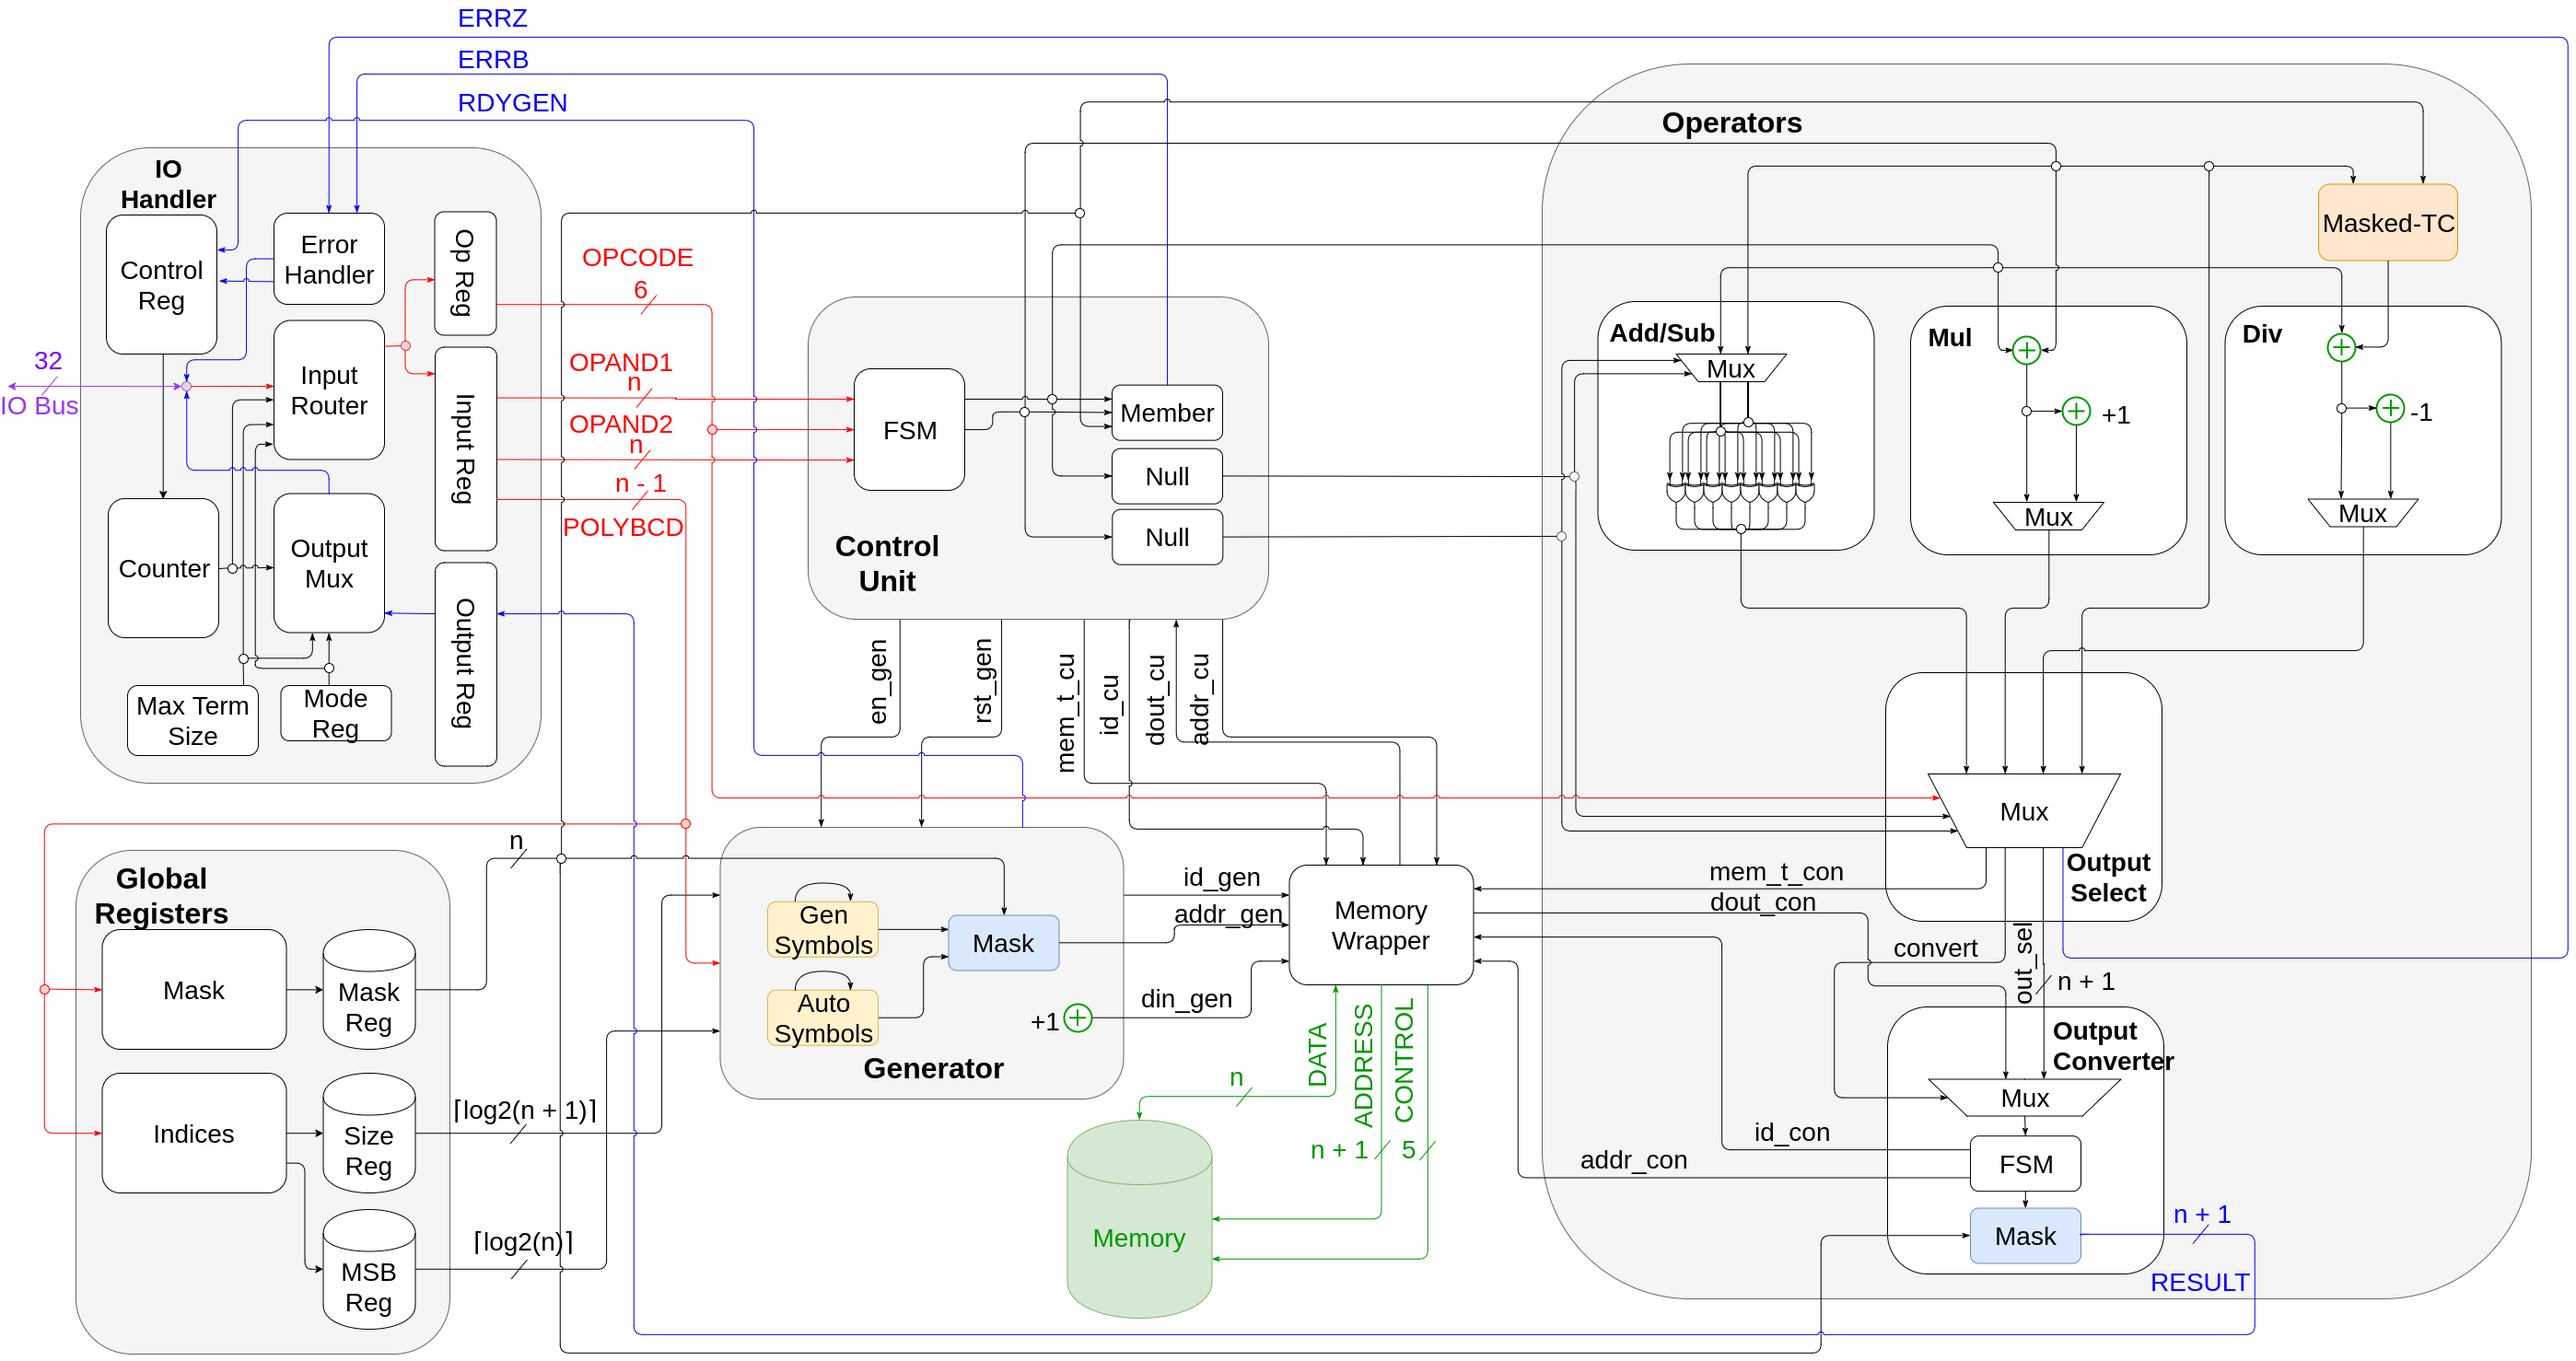
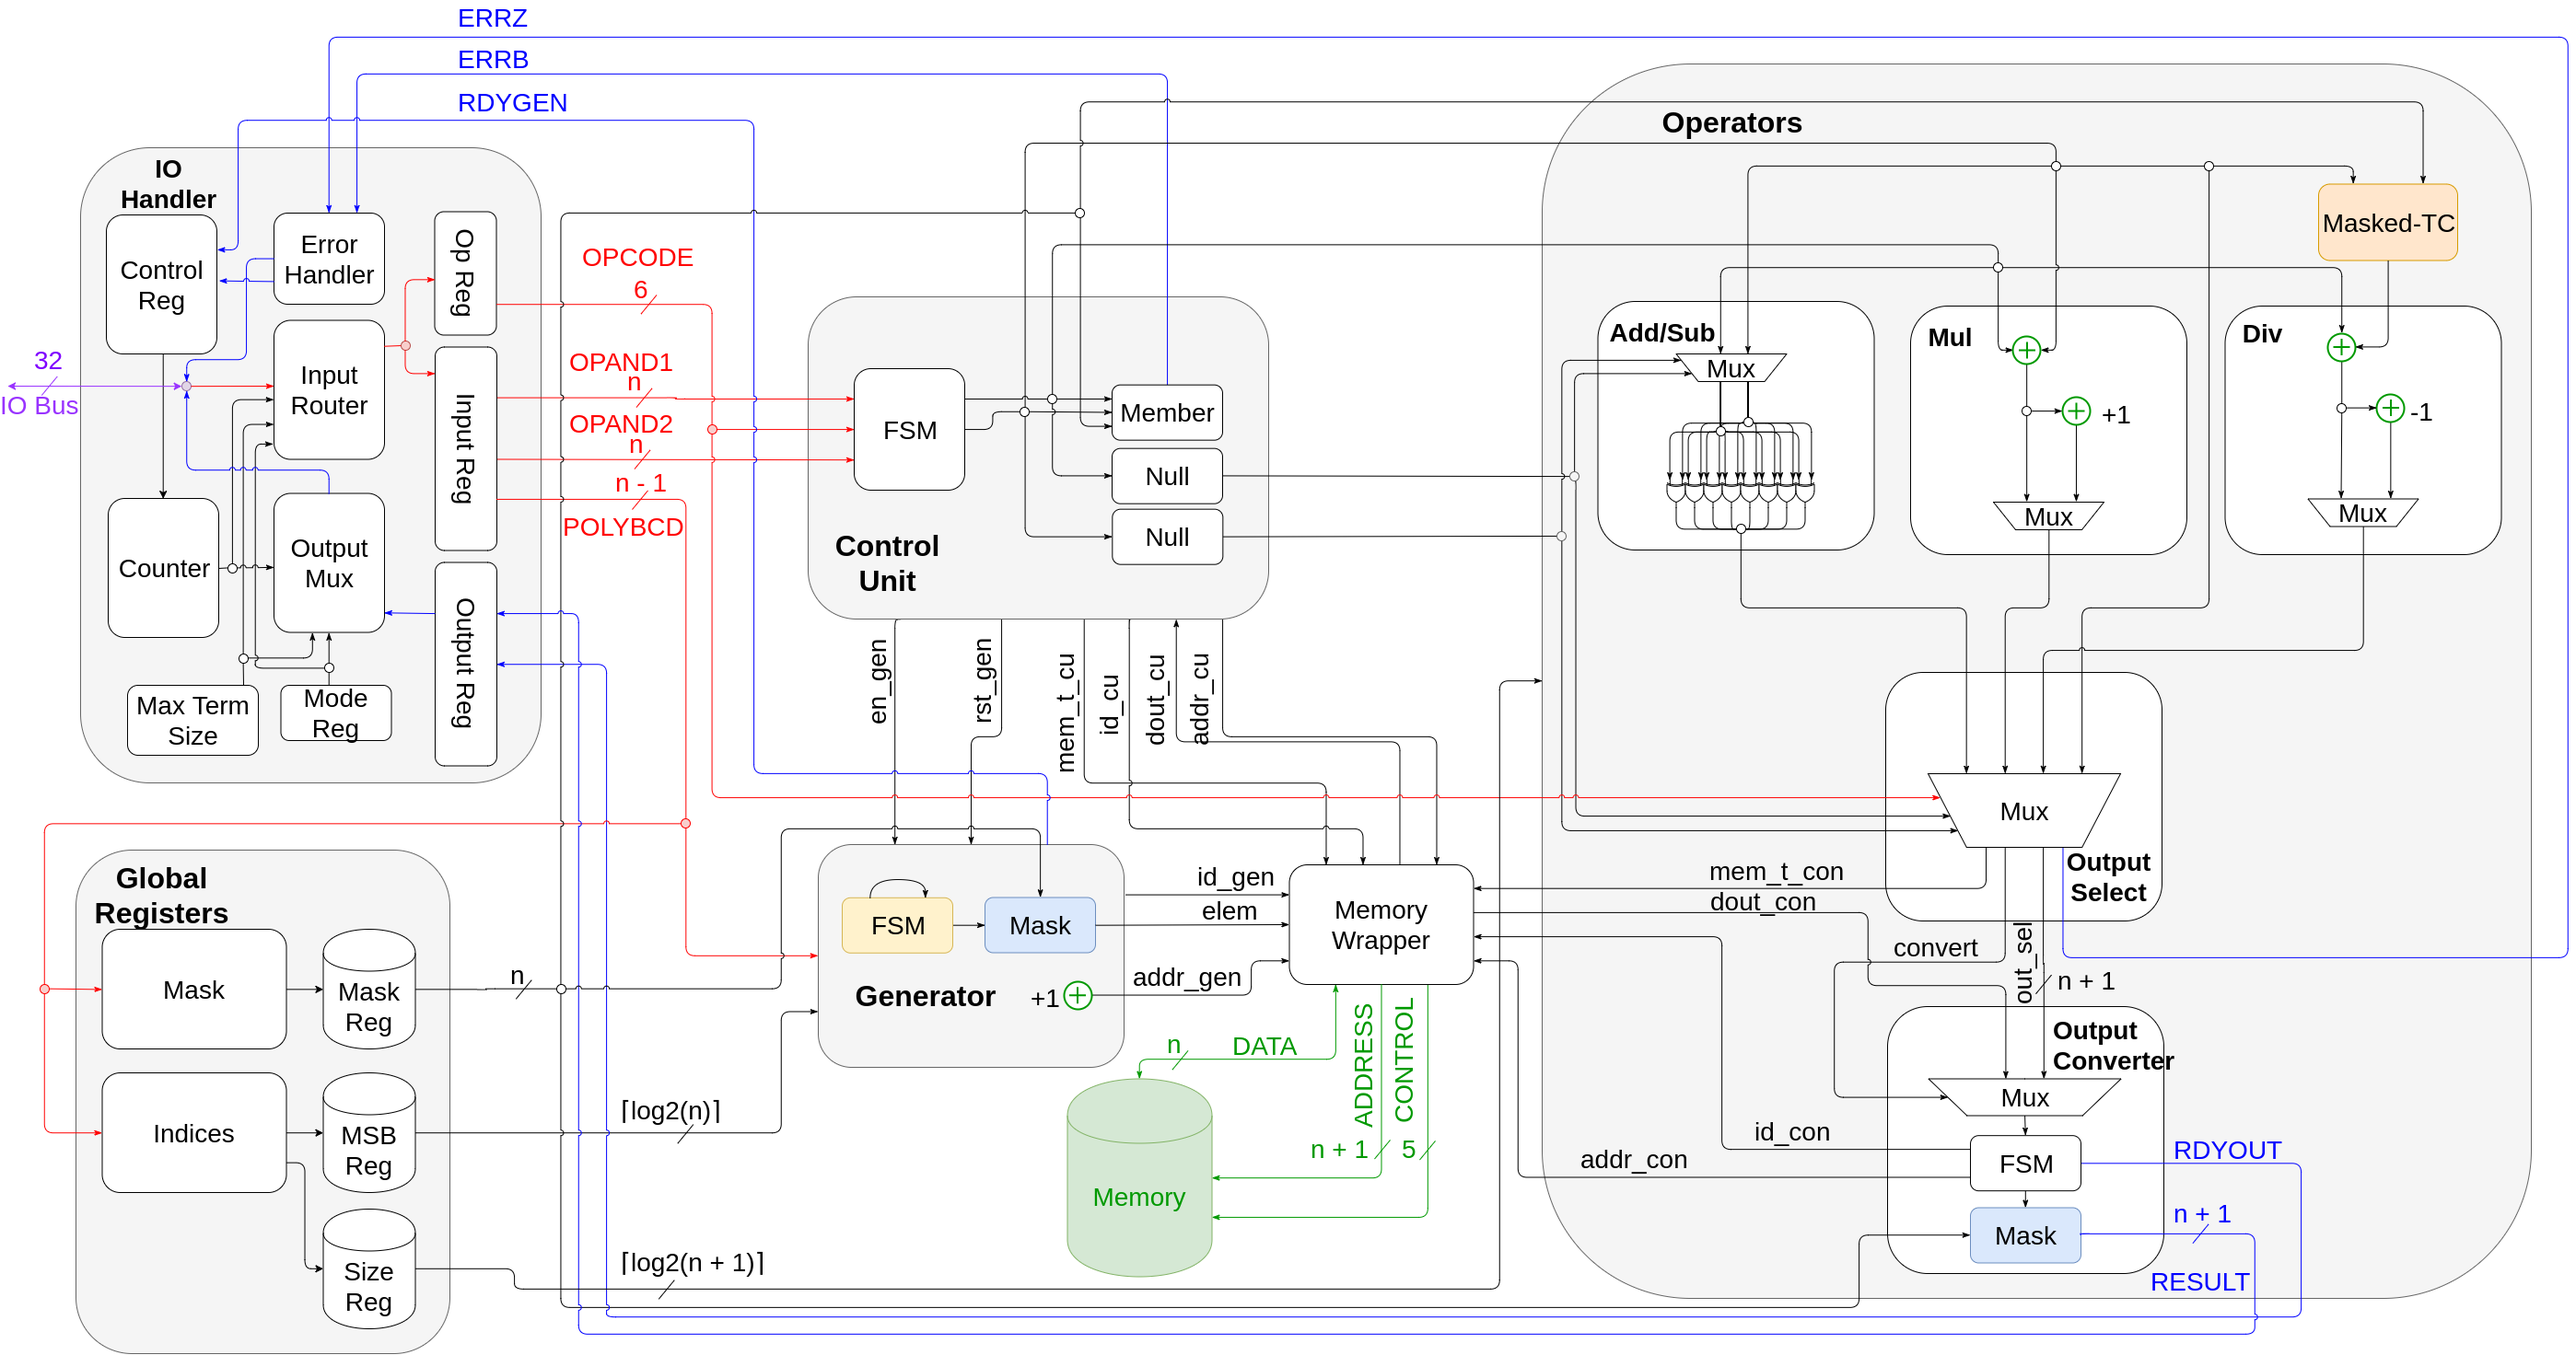
update block schematic with new signals

diff --git a/design/vhdl/README.md b/design/vhdl/README.md
@@ -1,54 +1,26 @@
 # Modules
 
-## Symbols
-- [ ] Automatic Symbol Generator
-    - [ ] 16-bits
-- [ ] Symbol Generator
-    - [ ] 16-bits
-- [x] Irreduciblity
-    - [x] [16-bits](https://github.com/sabbirahm3d/GFAU/blob/master/design/vhdl/gen/mods/reducable16.vhd)
+## Control Units
+- [x] [Opcode Control Unit](https://github.com/sabbirahm3d/GFAU/blob/master/design/vhdl/cu/mods/control_unit.vhd)
+
+## Generator
+- [x] [Element Generator](https://github.com/sabbirahm3d/GFAU/blob/master/design/vhdl/gen/mods/generator.vhd)
 
 ## Galois Operations
-- [x] Addition / Subtraction
-    - [x] [16-bits](https://github.com/sabbirahm3d/GFAU/blob/master/design/vhdl/ops/mods/addsub16.vhd)
-- [x] Multiplication
-    - [x] [16-bits](https://github.com/sabbirahm3d/GFAU/blob/master/design/vhdl/ops/mods/mul16.vhd)
-- [x] Division
-    - [x] [16-bits](https://github.com/sabbirahm3d/GFAU/blob/master/design/vhdl/ops/mods/div16.vhd)
-
-## Control Units
-- [ ] Opcode Control Unit
-    - [ ] 6-bits
-
-## Memory
-- [ ] Memory Wrapper
-    - [ ] 16-bits
-
-## Multiplexers
-- [ ] Data Bus Width
-    - [ ] ?-bits
-- [ ] Memory Lookup
-    - [ ] 16-bits
-- [x] Output Select
-    - [x] [6-bits](https://github.com/sabbirahm3d/GFAU/blob/master/design/vhdl/mux/mods/outselect.vhd)
-- [ ] Output Converter
-    - [ ] 16-bits
+- [x] [Addition / Subtraction](https://github.com/sabbirahm3d/GFAU/blob/master/design/vhdl/ops/mods/addsub.vhd)
+- [x] [Multiplication](https://github.com/sabbirahm3d/GFAU/blob/master/design/vhdl/ops/mods/mul.vhd)
+- [x] [Division](https://github.com/sabbirahm3d/GFAU/blob/master/design/vhdl/ops/mods/div.vhd)
+- [x] [Output Select](https://github.com/sabbirahm3d/GFAU/blob/master/design/vhdl/ops/mods/outselect.vhd)
+- [x] [Output Converter](https://github.com/sabbirahm3d/GFAU/blob/master/design/vhdl/ops/mods/outconvert.vhd)
+- [x] [Operators Top](https://github.com/sabbirahm3d/GFAU/blob/master/design/vhdl/ops/mods/operators.vhd)
 
 ## Binary Arithmetic Logic Units
-- [x] Partial Full Adder (PFA)
-    - [x] [1-bit](https://github.com/sabbirahm3d/GFAU/blob/master/design/vhdl/alu/mods/pfadder.vhd)
-- [x] Carry-Lookahead Adder (CLA)
-    - [x] [4-bits](https://github.com/sabbirahm3d/GFAU/blob/master/design/vhdl/alu/mods/claadder4.vhd)
-    - [x] [16-bits](https://github.com/sabbirahm3d/GFAU/blob/master/design/vhdl/alu/mods/claadder16.vhd)
-- [x] Two's Complement
-    - [x] [16-bits](https://github.com/sabbirahm3d/GFAU/blob/master/design/vhdl/alu/mods/twoscmp.vhd)
-- [x] Variable Mask
-    - [x] [16-bits](https://github.com/sabbirahm3d/GFAU/blob/master/design/vhdl/alu/mods/varmask.vhd)
-- [x] Masked Two's Complement
-    - [x] [16-bits](https://github.com/sabbirahm3d/GFAU/blob/master/design/vhdl/alu/mods/maskedtwoscmp.vhd)
-- [x] Degree of Polynomial
-    - [x] [16-bits](https://github.com/sabbirahm3d/GFAU/blob/master/design/vhdl/alu/mods/size.vhd)
-- [ ] Zero Exception
-    - [ ] 16-bits
-- [x] Out-of-bound Exception
-    - [x] [16-bits](https://github.com/sabbirahm3d/GFAU/blob/master/design/vhdl/alu/mods/isbounded.vhd)
+- [x] [Two's Complement](https://github.com/sabbirahm3d/GFAU/blob/master/design/vhdl/alu/mods/twoscmp.vhd)
+- [x] [Variable Mask](https://github.com/sabbirahm3d/GFAU/blob/master/design/vhdl/alu/mods/varmask.vhd)
+- [x] [Masked Two's Complement](https://github.com/sabbirahm3d/GFAU/blob/master/design/vhdl/alu/mods/maskedtwoscmp.vhd)
+- [x] [Order and Most Significant Bit Indices](https://github.com/sabbirahm3d/GFAU/blob/master/design/vhdl/alu/mods/indices.vhd)
+- [x] [Null Exception](https://github.com/sabbirahm3d/GFAU/blob/master/design/vhdl/alu/mods/usnull.vhd)
+- [x] [Membership Exception](https://github.com/sabbirahm3d/GFAU/blob/master/design/vhdl/alu/mods/ismember.vhd)
+
+## Memory
+- [ ] [Memory Wrapper](https://github.com/sabbirahm3d/GFAU/blob/master/design/vhdl/mem/mods/memory.vhd)
